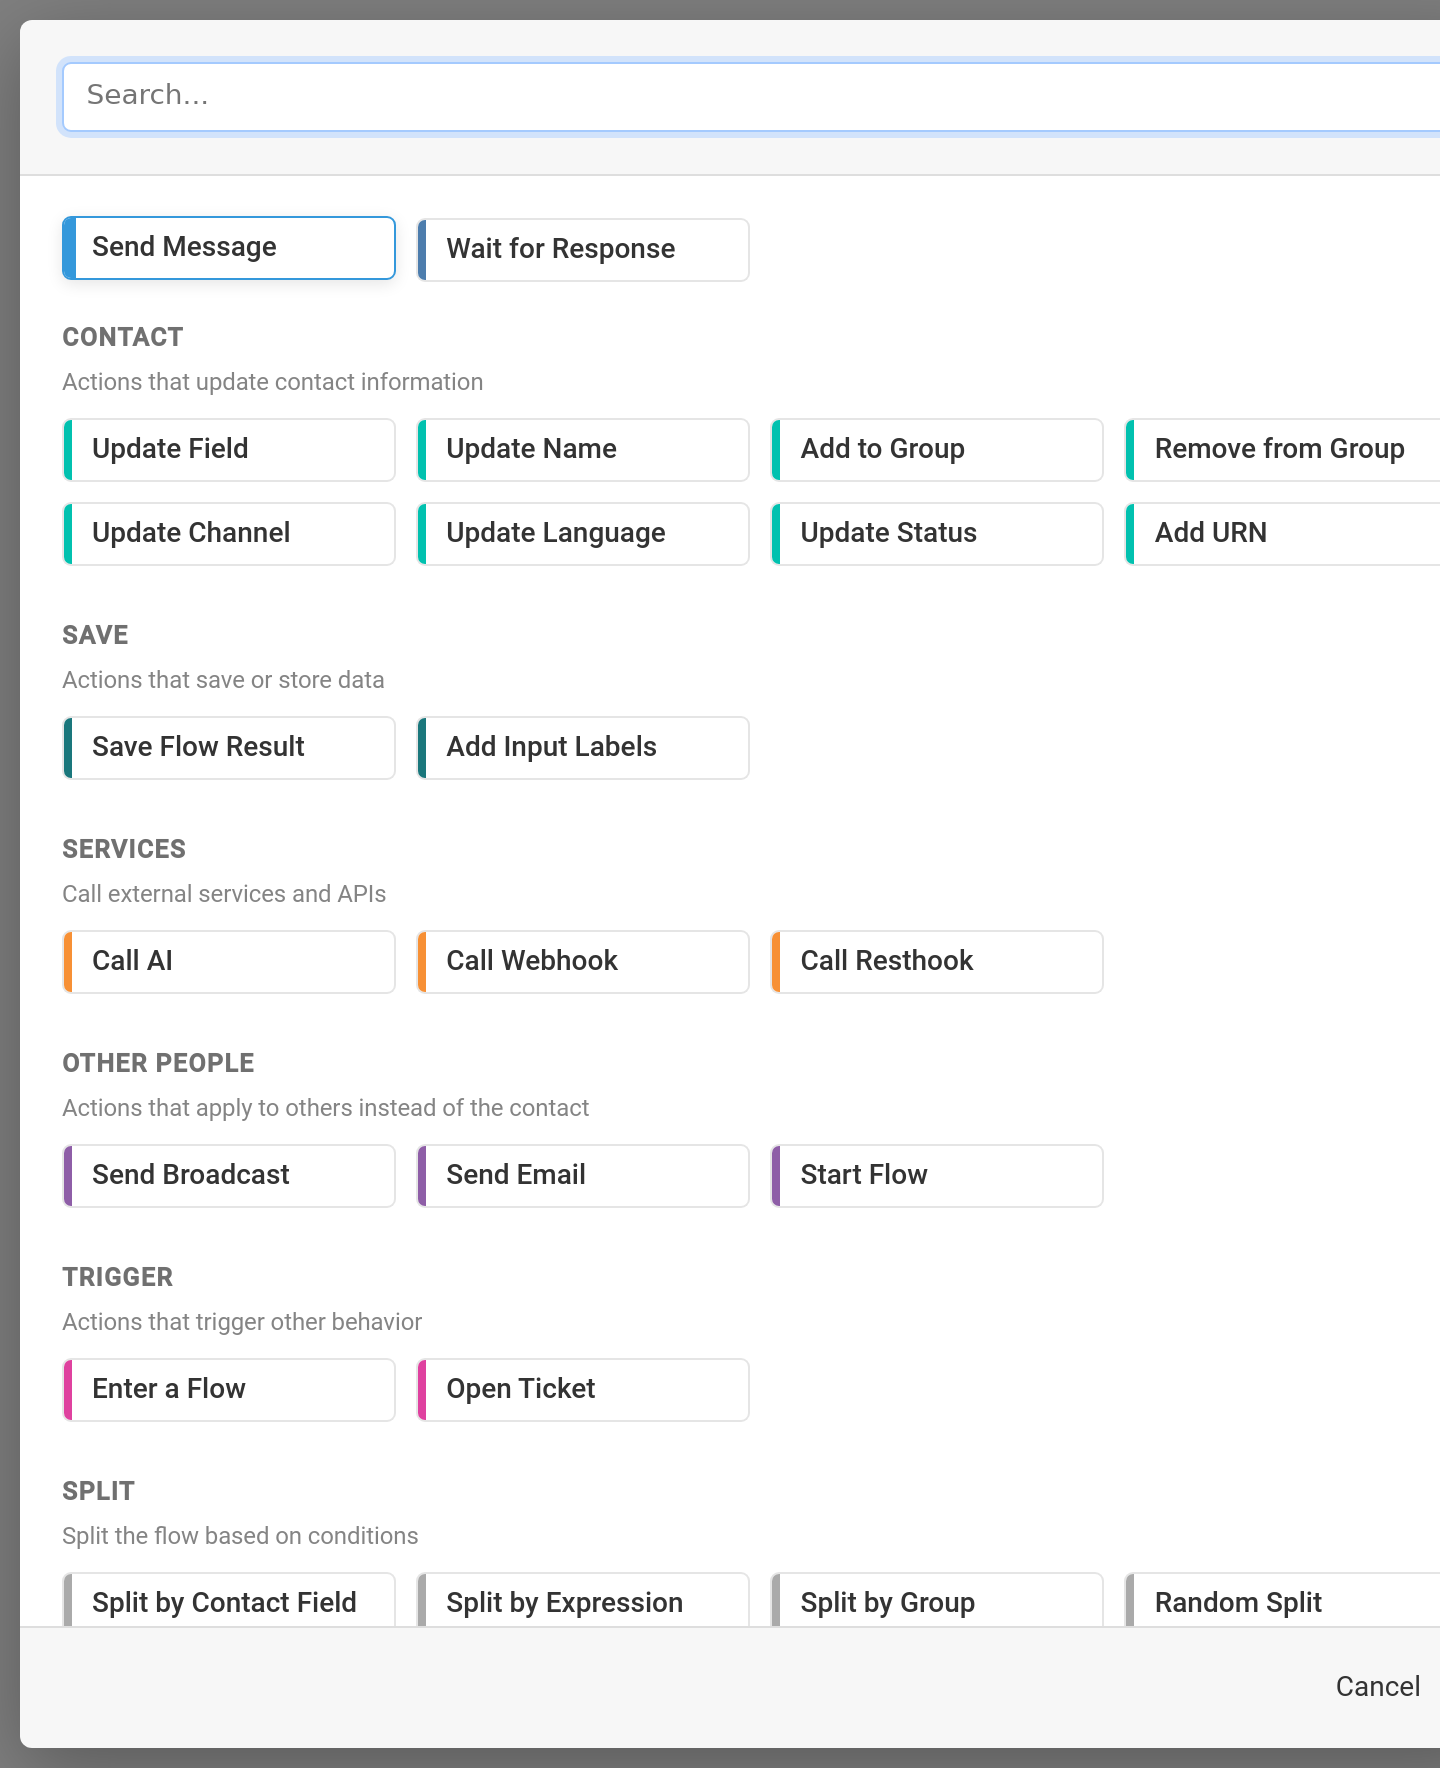
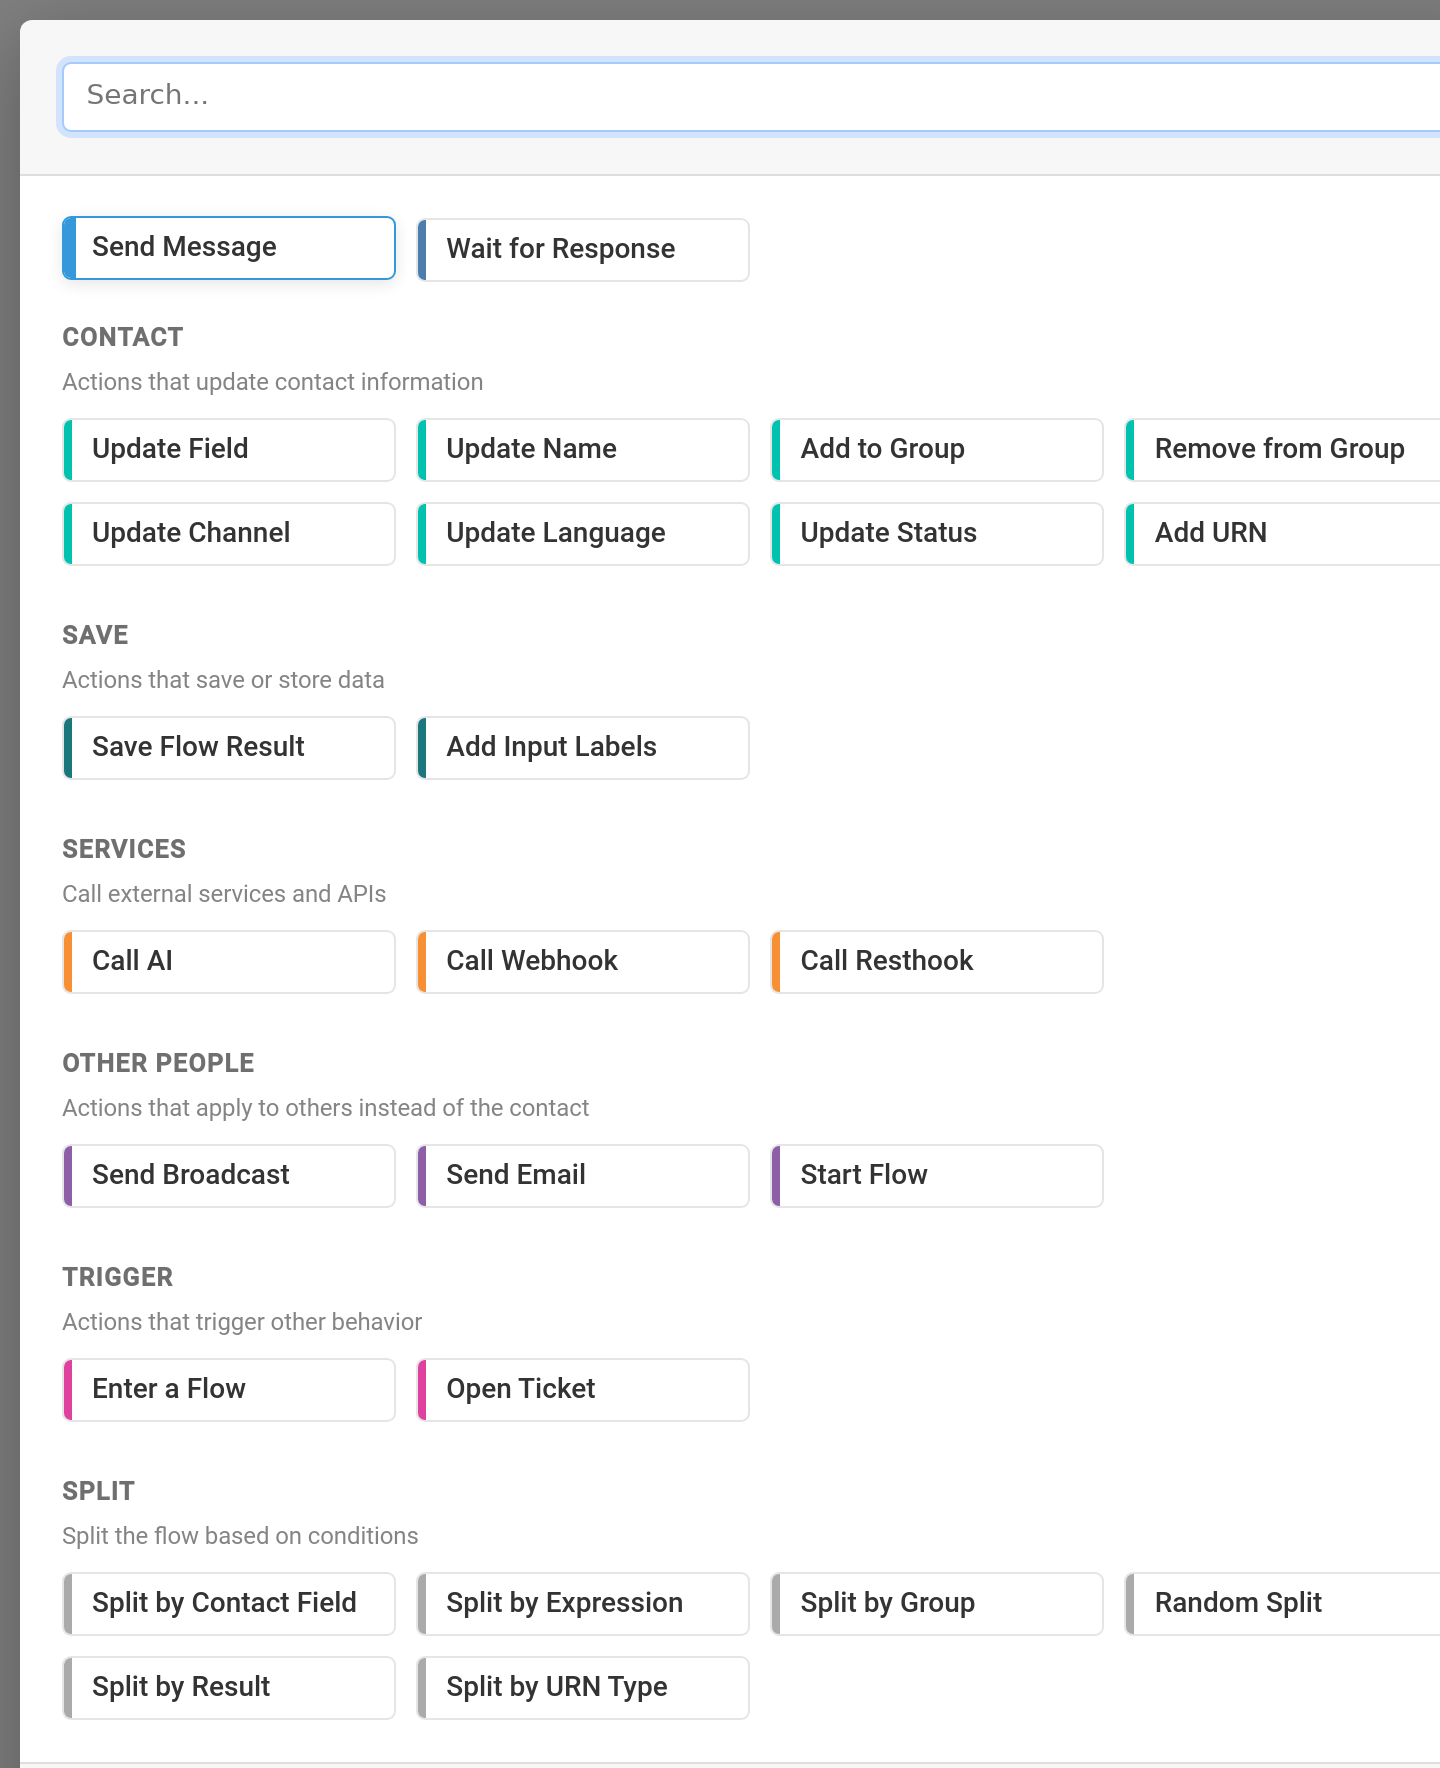
Anchor node type selector while filtering (#909)
* Keep node type selector anchored while resizing
* Update node type selector screenshot baseline

Changed region(s): [[0.0, 0.9333, 1.0, 1.0]]

diff --git a/src/flow/NodeTypeSelector.ts b/src/flow/NodeTypeSelector.ts
@@ -49,6 +49,8 @@ export class NodeTypeSelector extends RapidElement {
   static get styles() {
     return css`
       :host {
+        --dialog-top-offset: clamp(16px, 6vh, 64px);
+        --dialog-bottom-offset: clamp(24px, 5vh, 56px);
         position: fixed;
         top: 0;
         left: 0;
@@ -60,8 +62,10 @@ export class NodeTypeSelector extends RapidElement {
 
       :host([open]) {
         display: flex;
-        align-items: center;
+        align-items: flex-start;
         justify-content: center;
+        padding-top: var(--dialog-top-offset);
+        box-sizing: border-box;
       }
 
       .overlay {
@@ -79,7 +83,9 @@ export class NodeTypeSelector extends RapidElement {
         border-radius: var(--curvature);
         box-shadow: 0 10px 40px rgba(0, 0, 0, 0.3);
         max-width: 740px;
-        max-height: 80vh;
+        max-height: calc(
+          100vh - var(--dialog-top-offset) - var(--dialog-bottom-offset)
+        );
         width: 90%;
         display: flex;
         flex-direction: column;
@@ -111,6 +117,7 @@ export class NodeTypeSelector extends RapidElement {
         overflow-y: auto;
         overflow-x: hidden;
         flex: 1;
+        min-height: 0;
         padding: 1.5em;
       }
 
